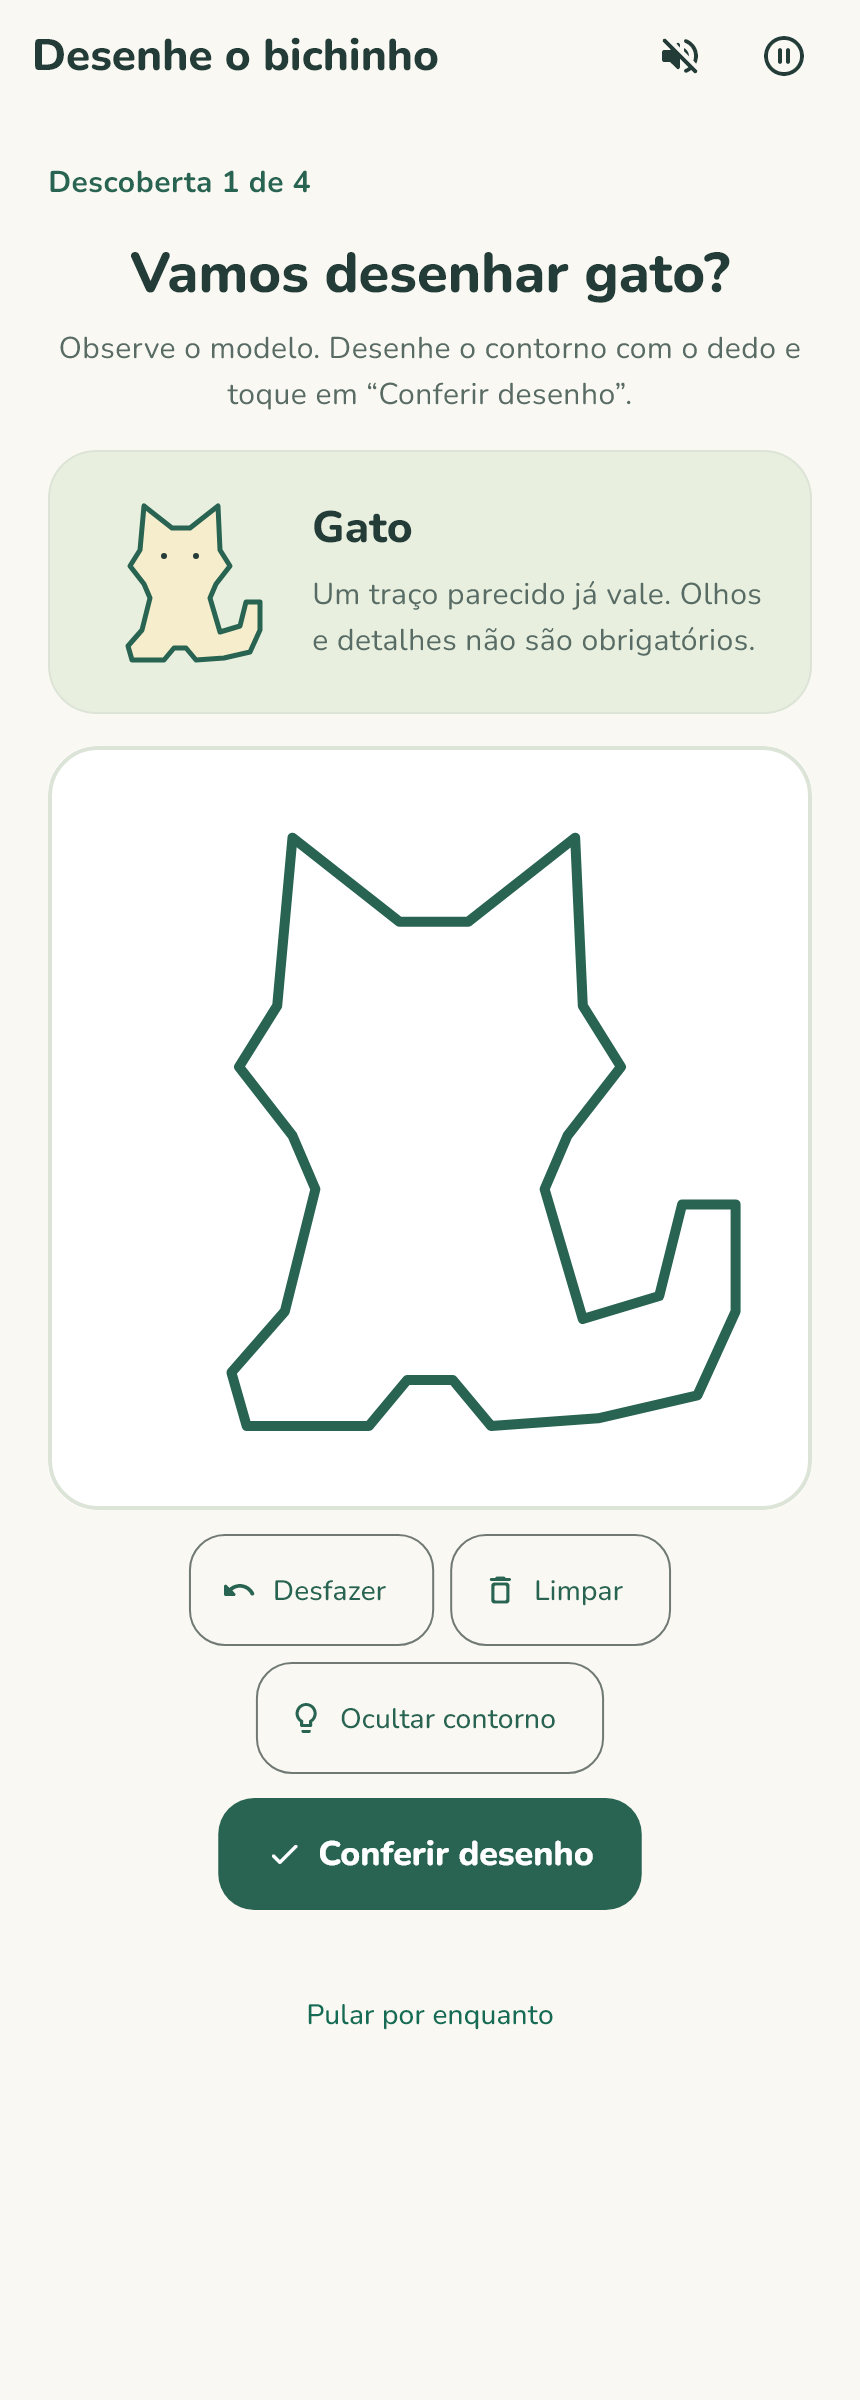
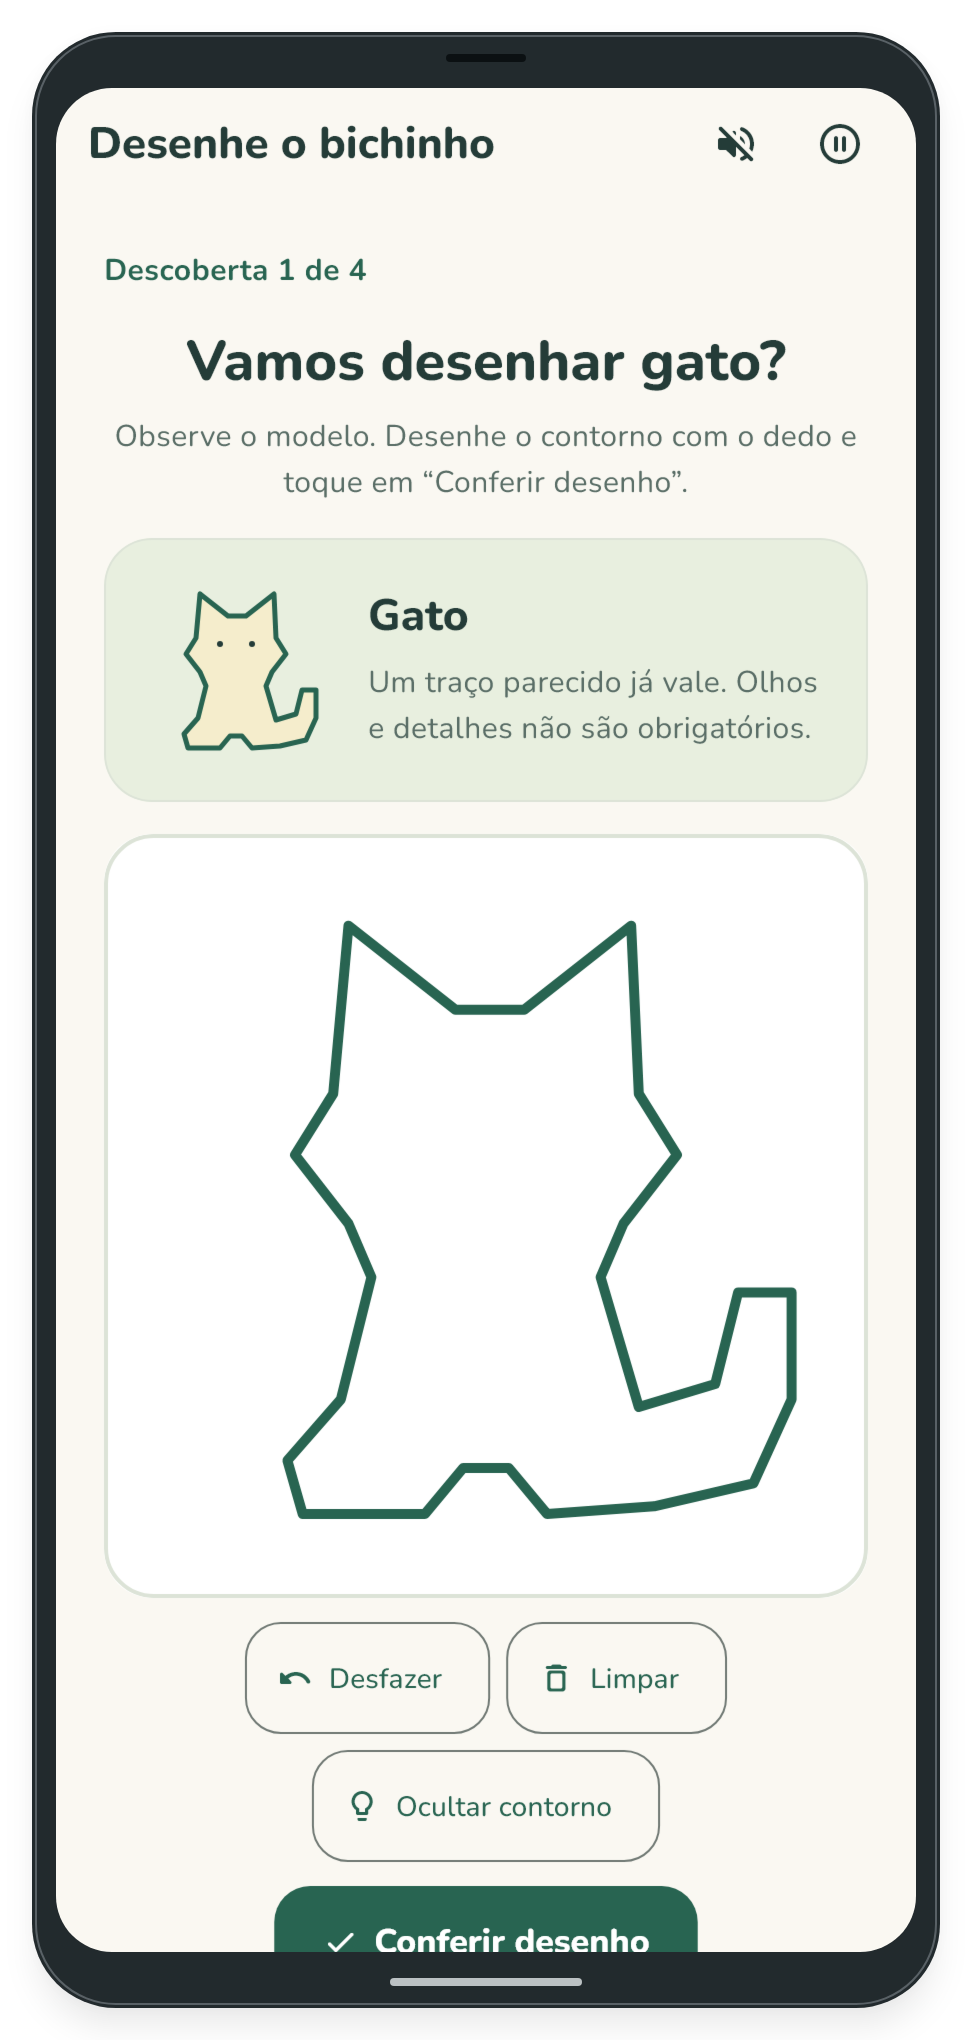
Updates README

diff --git a/tool/generate_readme_previews.dart b/tool/generate_readme_previews.dart
@@ -9,6 +9,7 @@ import 'package:bicho_a_bicho/features/games/domain/game_definition.dart';
 import 'package:bicho_a_bicho/features/games/domain/game_session.dart';
 import 'package:bicho_a_bicho/features/games/presentation/game_page.dart';
 import 'package:bicho_a_bicho/features/games/presentation/game_view_model.dart';
+import 'package:bicho_a_bicho/features/games/presentation/memory_controller.dart';
 import 'package:bicho_a_bicho/features/progress/presentation/learning_report.dart';
 import 'package:bicho_a_bicho/features/settings/presentation/app_settings.dart';
 import 'package:flutter/material.dart';
@@ -20,7 +21,7 @@ import 'package:flutter_test/flutter_test.dart';
 import '../test/support/fakes.dart';
 import '../test/support/profile_navigation.dart';
 
-const _phoneSize = Size(430, 1200);
+const _phoneSize = Size(430, 932);
 const _outputDirectory = 'docs/previews/readme';
 
 /// Run with: flutter test tool/generate_readme_previews.dart
@@ -57,10 +58,8 @@ void main() {
     await tester.pumpAndSettle();
     await _capture(tester, appKey, 'profiles');
     await chooseLearner(tester, 'Meu Cachorro');
-    tester.view.physicalSize = const Size(1280, 1560);
     await tester.pumpAndSettle();
     await _capture(tester, appKey, 'home');
-    tester.view.physicalSize = const Size(1280, 1900);
     await tester.pumpAndSettle();
     await tester.tap(find.text('Bichinhos'));
     await tester.pumpAndSettle();
@@ -105,14 +104,21 @@ void main() {
       );
       await tester.pumpAndSettle();
       await _capture(tester, key, 'game_${game.kind.name}');
-      if (game.kind != GameKind.drawing) {
+      if (game.kind == GameKind.memory) {
+        model.memory.start();
+        await tester.pump(MemoryController.flipDuration);
+        await tester.pump(MemoryController.shuffleDuration);
+        await tester.pump(MemoryController.shuffleDuration);
+        await tester.pumpAndSettle();
+        await _capture(tester, key, 'game_memory_hidden');
+      } else if (game.kind != GameKind.drawing) {
         model.showHint();
         model.answer(model.round.answer);
       }
       await tester.pumpWidget(const SizedBox());
     }
 
-    tester.view.physicalSize = const Size(780, 2200);
+    tester.view.physicalSize = _phoneSize;
     final reportKey = GlobalKey();
     await tester.pumpWidget(
       RepaintBoundary(
@@ -154,7 +160,8 @@ Future<void> _capture(WidgetTester tester, GlobalKey key, String name) async {
   await tester.runAsync(() async {
     final boundary =
         key.currentContext!.findRenderObject()! as RenderRepaintBoundary;
-    final image = await boundary.toImage(pixelRatio: 2);
+    final screen = await boundary.toImage(pixelRatio: 2);
+    final image = await _framePhone(screen);
     try {
       final bytes = await image.toByteData(format: ui.ImageByteFormat.png);
       final file = File('$_outputDirectory/$name.png');
@@ -162,6 +169,75 @@ Future<void> _capture(WidgetTester tester, GlobalKey key, String name) async {
       await file.writeAsBytes(bytes!.buffer.asUint8List());
     } finally {
       image.dispose();
+      screen.dispose();
     }
   });
+}
+
+/// Adds a device frame around an unmodified capture of the real Flutter UI.
+Future<ui.Image> _framePhone(ui.Image screen) async {
+  const margin = 16.0;
+  const bezel = 12.0;
+  const endBezel = 28.0;
+  const scale = 2.0;
+  final deviceSize = Size(
+    _phoneSize.width + bezel * 2,
+    _phoneSize.height + endBezel * 2,
+  );
+  final outputSize = Size(
+    deviceSize.width + margin * 2,
+    deviceSize.height + margin * 2,
+  );
+  final recorder = ui.PictureRecorder();
+  final canvas = Canvas(recorder)..scale(scale);
+  final device = RRect.fromRectAndRadius(
+    Offset(margin, margin) & deviceSize,
+    const Radius.circular(42),
+  );
+  canvas.drawShadow(Path()..addRRect(device), const Color(0x55000000), 8, true);
+  canvas.drawRRect(device, Paint()..color = const Color(0xFF222A2D));
+  canvas.drawRRect(
+    device.deflate(2),
+    Paint()
+      ..color = const Color(0xFF596166)
+      ..style = PaintingStyle.stroke
+      ..strokeWidth = 1,
+  );
+  final display = RRect.fromRectAndRadius(
+    const Offset(margin + bezel, margin + endBezel) & _phoneSize,
+    const Radius.circular(28),
+  );
+  canvas.save();
+  canvas.clipRRect(display);
+  canvas.drawImageRect(
+    screen,
+    Rect.fromLTWH(0, 0, screen.width.toDouble(), screen.height.toDouble()),
+    display.outerRect,
+    Paint()..filterQuality = FilterQuality.high,
+  );
+  canvas.restore();
+  final centerX = outputSize.width / 2;
+  canvas.drawRRect(
+    RRect.fromRectAndRadius(
+      Rect.fromLTWH(centerX - 20, margin + 11, 40, 4),
+      const Radius.circular(2),
+    ),
+    Paint()..color = const Color(0xFF0B1012),
+  );
+  canvas.drawRRect(
+    RRect.fromRectAndRadius(
+      Rect.fromLTWH(centerX - 48, margin + deviceSize.height - 15, 96, 4),
+      const Radius.circular(2),
+    ),
+    Paint()..color = const Color(0xFFBBC1C3),
+  );
+  final picture = recorder.endRecording();
+  try {
+    return await picture.toImage(
+      (outputSize.width * scale).round(),
+      (outputSize.height * scale).round(),
+    );
+  } finally {
+    picture.dispose();
+  }
 }

diff --git a/README.md b/README.md
@@ -20,11 +20,13 @@
   </p>
 </div>
 
-![Tela inicial do Bicho a Bicho com as atividades educativas](docs/previews/readme/home.png)
+<p align="center">
+  <a href="docs/previews/readme/home.png"><img src="docs/previews/readme/home.png" alt="Tela inicial do Bicho a Bicho em layout mobile, apresentada em uma moldura de celular" width="280"></a>
+</p>
 
 ## Sobre o projeto
 
-**Bicho a Bicho** é um aplicativo Flutter em português brasileiro que reúne sete brincadeiras educativas e um catálogo de oito animais com imagens e sons. Associação visual, letras, contagem, fala, pistas, histórias e desenho fazem parte de uma experiência com instruções simples e apoio visual.
+**Bicho a Bicho** é um aplicativo Flutter em português brasileiro que reúne oito brincadeiras educativas e um catálogo de oito animais com imagens e sons. Associação visual, letras, contagem, fala, pistas, histórias, desenho e memória fazem parte de uma experiência com instruções simples e apoio visual.
 
 O projeto considera previsibilidade, acessibilidade cognitiva e personalização para crianças com Transtorno do Espectro Autista (TEA). Famílias e educadores podem ajustar a experiência e acompanhar registros de uso no próprio dispositivo, sem exigir conta para brincar.
 
@@ -41,6 +43,7 @@ O projeto considera previsibilidade, acessibilidade cognitiva e personalização
 | **Detetive dos bichos** | Descobrir qual animal combina com uma pista, com leitura compartilhada. |
 | **Histórias da turma** | Acompanhar quatro histórias originais em duas cenas e responder a perguntas por imagens. |
 | **Desenhe o bichinho** | Desenhar o contorno de cachorro, gato, leão ou elefante, com modelo, dica tracejada e opção de desfazer. |
+| **Memória dos bichos** | Encontrar três pares em seis cartas, com apresentação inicial, virada e embaralhamento animados. Todas as cartas mudam de posição, e os pares ficam separados na sequência. |
 
 Na seção **Bichinhos**, a criança também pode explorar cachorro, gato, leão, elefante, vaca, cavalo, ovelha e pato. As imagens e os sons do catálogo acompanham o aplicativo e estão disponíveis offline.
 
@@ -54,7 +57,7 @@ Pistas e histórias foram pensadas para leitura com um adulto, sem exigir leitur
 - **Movimento reduzido:** ativado por padrão, respeitando também a preferência de acessibilidade do sistema.
 - **Comemorações breves:** feedback visual de acerto e áudio opcional, interrompidos ao pausar, avançar ou sair.
 - **Resposta alternativa:** a atividade de fala também pode ser concluída por toque.
-- **Sessões ajustáveis:** responsáveis escolhem a quantidade de alternativas e a duração em rodadas.
+- **Sessões ajustáveis:** responsáveis escolhem a quantidade de alternativas e a duração em rodadas. O jogo da memória sempre usa seis cartas, formando três pares.
 
 A abertura apresenta a turma por cinco segundos e pode ser pulada em **Começar agora**. Ela aparece uma vez por inicialização. Em movimento reduzido, a turma e as comemorações são exibidas sem animação.
 
@@ -68,31 +71,30 @@ Esses registros representam interações com as atividades. Não constituem uma 
 
 ## Galeria
 
-Capturas da versão atual, geradas diretamente pelos widgets Flutter em resolução 2×. Os cartões e o acompanhamento usam apenas dados fictícios de demonstração. Clique nas imagens para ampliá-las.
+Capturas da versão atual em **layout mobile de 430 × 932**, geradas diretamente pelos widgets Flutter em resolução 2× e apresentadas em uma moldura ilustrativa de celular. As imagens mostram a área visível da tela; conteúdos adicionais podem ser acessados por rolagem no app. Os cartões e o acompanhamento usam apenas dados fictícios de demonstração. Clique nas imagens para ampliá-las.
 
 <table>
   <tr>
     <td align="center" valign="top"><strong>Escolha do cartão</strong><br><a href="docs/previews/readme/profiles.png"><img src="docs/previews/readme/profiles.png" alt="Seleção de quatro cartões com animais diferentes e opção de criar um novo" width="240"></a></td>
+    <td align="center" valign="top"><strong>Memória: observe os pares</strong><br><a href="docs/previews/readme/game_memory.png"><img src="docs/previews/readme/game_memory.png" alt="Jogo da memória no celular com seis cartas de animais reveladas e botão Esconder e embaralhar" width="240"></a></td>
+    <td align="center" valign="top"><strong>Memória: encontre os pares</strong><br><a href="docs/previews/readme/game_memory_hidden.png"><img src="docs/previews/readme/game_memory_hidden.png" alt="Seis cartas escondidas após o embaralhamento, prontas para encontrar os três pares" width="240"></a></td>
+  </tr>
+  <tr>
     <td align="center" valign="top"><strong>Encontre o bichinho</strong><br><a href="docs/previews/readme/game_matching.png"><img src="docs/previews/readme/game_matching.png" alt="Associação visual com cachorro, cavalo e ovelha entre as alternativas" width="240"></a></td>
     <td align="center" valign="top"><strong>A letra do bicho</strong><br><a href="docs/previews/readme/game_letters.png"><img src="docs/previews/readme/game_letters.png" alt="Escolha da letra inicial que completa o nome cachorro" width="240"></a></td>
+    <td align="center" valign="top"><strong>Vamos contar?</strong><br><a href="docs/previews/readme/game_counting.png"><img src="docs/previews/readme/game_counting.png" alt="Contagem de três elefantes com alternativas numéricas" width="240"></a></td>
   </tr>
   <tr>
-    <td align="center" valign="top"><strong>Vamos contar?</strong><br><a href="docs/previews/readme/game_counting.png"><img src="docs/previews/readme/game_counting.png" alt="Contagem de três elefantes com alternativas numéricas" width="240"></a></td>
     <td align="center" valign="top"><strong>Olá, bichinho!</strong><br><a href="docs/previews/readme/game_speaking.png"><img src="docs/previews/readme/game_speaking.png" alt="Identificação de um cachorro por voz ou escolha de imagem" width="240"></a></td>
     <td align="center" valign="top"><strong>Detetive dos bichos</strong><br><a href="docs/previews/readme/game_clues.png"><img src="docs/previews/readme/game_clues.png" alt="Descoberta do animal a partir da pista Eu faço au-au" width="240"></a></td>
+    <td align="center" valign="top"><strong>Histórias da turma</strong><br><a href="docs/previews/readme/game_stories.png"><img src="docs/previews/readme/game_stories.png" alt="História Uma bola no parque, com duas cenas e pergunta por imagens" width="240"></a></td>
   </tr>
   <tr>
-    <td align="center" valign="top"><strong>Histórias da turma</strong><br><a href="docs/previews/readme/game_stories.png"><img src="docs/previews/readme/game_stories.png" alt="História Uma bola no parque, com duas cenas e pergunta por imagens" width="240"></a></td>
     <td align="center" valign="top"><strong>Desenhe o bichinho</strong><br><a href="docs/previews/readme/game_drawing.png"><img src="docs/previews/readme/game_drawing.png" alt="Modelo e contorno de gato desenhado, com controles de desfazer, limpar e conferir" width="240"></a></td>
+    <td align="center" valign="top"><strong>Explore os bichinhos</strong><br><a href="docs/previews/readme/animals.png"><img src="docs/previews/readme/animals.png" alt="Seção Bichinhos no celular, com os animais disponíveis para explorar por imagem e som" width="240"></a></td>
     <td align="center" valign="top"><strong>Acompanhamento</strong><br><a href="docs/previews/readme/report.png"><img src="docs/previews/readme/report.png" alt="Relatório com registros fictícios, filtros e contadores das atividades" width="240"></a></td>
   </tr>
 </table>
-
-<details>
-  <summary><strong>Ver o catálogo completo dos oito bichinhos</strong></summary>
-
-  <p><img src="docs/previews/readme/animals.png" alt="Catálogo atual com cachorro, gato, leão, elefante, vaca, cavalo, ovelha e pato" width="960"></p>
-</details>
 
 As imagens da galeria estão em [docs/previews/readme](docs/previews/readme/). Outros tamanhos de tela usados nos testes estão em [docs/previews](docs/previews/).
 
@@ -190,15 +192,15 @@ flutter build apk --debug
 
 Os testes usam fakes e não dependem de rede, credenciais ou microfone. Cobrem regras das sessões, ViewModels, preferências, cartões, acompanhamento, desenho, consentimento de analytics e interações dos widgets.
 
-O [registro de validação](docs/VALIDATION.md) documenta **162 testes aprovados**, análise estática sem problemas e builds Android debug e Web release concluídos em **5 de novembro de 2026**. A suíte de 162 testes também foi reexecutada com sucesso durante a atualização das capturas da galeria.
+O [registro de validação](docs/VALIDATION.md) documenta a validação anterior de **162 testes aprovados**, análise estática sem problemas e builds Android debug e Web release concluídos em **5 de novembro de 2026**. Após a inclusão do jogo da memória, a suíte passou a **172 testes aprovados**, com análise estática sem problemas e APK release gerado na mesma data.
 
-Para regenerar as 11 capturas em alta resolução usadas pelo README:
+Para regenerar as 13 capturas mobile em alta resolução usadas pelo README:
 
 ```sh
 flutter test tool/generate_readme_previews.dart
 ```
 
-O gerador usa os componentes reais, fontes e imagens do aplicativo, com aleatoriedade determinística e armazenamento em memória. Não acessa contas, microfone ou dados reais de usuários. Os arquivos são gravados em `docs/previews/readme/`.
+O gerador usa os componentes reais, fontes e imagens do aplicativo, sessões de demonstração e armazenamento em memória. Inclui a moldura de celular e os estados de cartas reveladas e escondidas do jogo da memória. Não acessa contas, microfone ou dados reais de usuários. Os arquivos são gravados em `docs/previews/readme/`.
 
 Para atualizar também as capturas nos tamanhos de tela usados pela suíte em `docs/previews/`:
 
